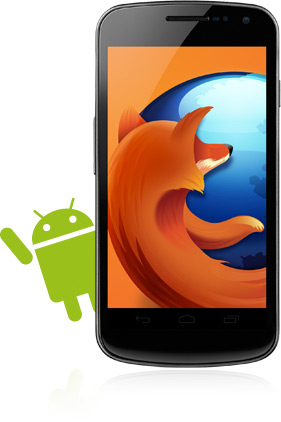
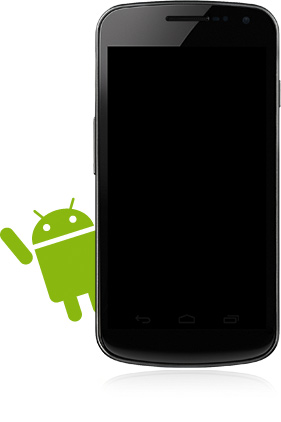
Initial experimental implementation of CSS animation to slide through android screens (Bug 780968)

diff --git a/media/css/firefox/fx.less b/media/css/firefox/fx.less
@@ -138,6 +138,7 @@
     }
     #photo-column {
         .span(4);
+        position: relative;
         img {
             position: relative;
             right: 45px;
@@ -206,6 +207,64 @@
     li#firefox-mobile   a { background-position: 0 -600px; }
     li#playstore-mobile a { background-position: 0 -800px; }
 }
+
+#phone-screen {
+    position: absolute;
+    top: 45px;
+    left: 71px;
+    height: 264px;
+    width: 160px;
+    background: url(/media/img/firefox/fx/android-animation-screens.jpg) 0 0 repeat-y;
+    display: block;
+    z-index: 6;
+    &:after {
+        content: "";
+        height: 264px;
+        width: 160px;
+        display: block;
+        background: url(/media/img/firefox/fx/android-animation-sheen.png) 0 0 no-repeat;
+        position: relative;
+        z-index: 7;
+    }
+
+    -moz-animation: screenslide 20s ease infinite alternate;
+    -webkit-animation: screenslide 20s ease infinite alternate;
+    animation: screenslide 20s ease infinite alternate;
+}
+
+@keyframes screenslide {
+      0% { background-position: 0 0; }
+     20% { background-position: 0 0; }
+     22% { background-position: 0 -264px; }
+     42% { background-position: 0 -264px; }
+     44% { background-position: 0 -528px; }
+     64% { background-position: 0 -528px; }
+     66% { background-position: 0 -792px; }
+    100% { background-position: 0 -792px; }
+}
+
+@-moz-keyframes screenslide {
+      0% { background-position: 0 0; }
+     20% { background-position: 0 0; }
+     22% { background-position: 0 -264px; }
+     42% { background-position: 0 -264px; }
+     44% { background-position: 0 -528px; }
+     64% { background-position: 0 -528px; }
+     66% { background-position: 0 -792px; }
+    100% { background-position: 0 -792px; }
+}
+
+@-webkit-keyframes screenslide {
+      0% { background-position: 0 0; }
+     20% { background-position: 0 0; }
+     22% { background-position: 0 -264px; }
+     42% { background-position: 0 -264px; }
+     44% { background-position: 0 -528px; }
+     64% { background-position: 0 -528px; }
+     66% { background-position: 0 -792px; }
+    100% { background-position: 0 -792px; }
+}
+
 
 /* Tablet Layout: 760px */
 @media only screen and (min-width: @breakTablet) and (max-width: @breakDesktop) {

diff --git a/apps/firefox/templates/firefox/fx.html b/apps/firefox/templates/firefox/fx.html
@@ -33,6 +33,7 @@
         </div>
         <div id="photo-column">
           <img src="{{ media('/img/firefox/fx/mobile-phone.jpg') }}" alt="{{_('Firefox on Android')}}" />
+          <span id="phone-screen"></span>
         </div>
         <ul class="sub-features">
           <li id="supported">
